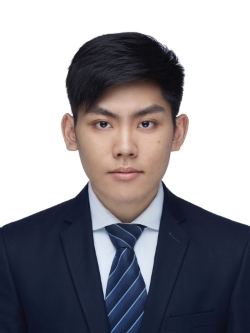
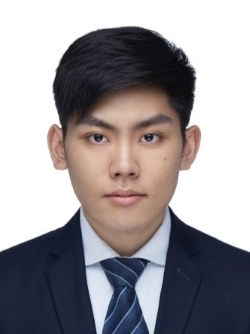
change jpg

diff --git a/_pages/about.md b/_pages/about.md
@@ -6,7 +6,7 @@ subtitle:
 
 profile:
   align: left
-  image: IMG_8239.jpg
+  image: IMG_8239_small.jpg
   image_circular: false # crops the image to make it circular
   more_info: 
 
